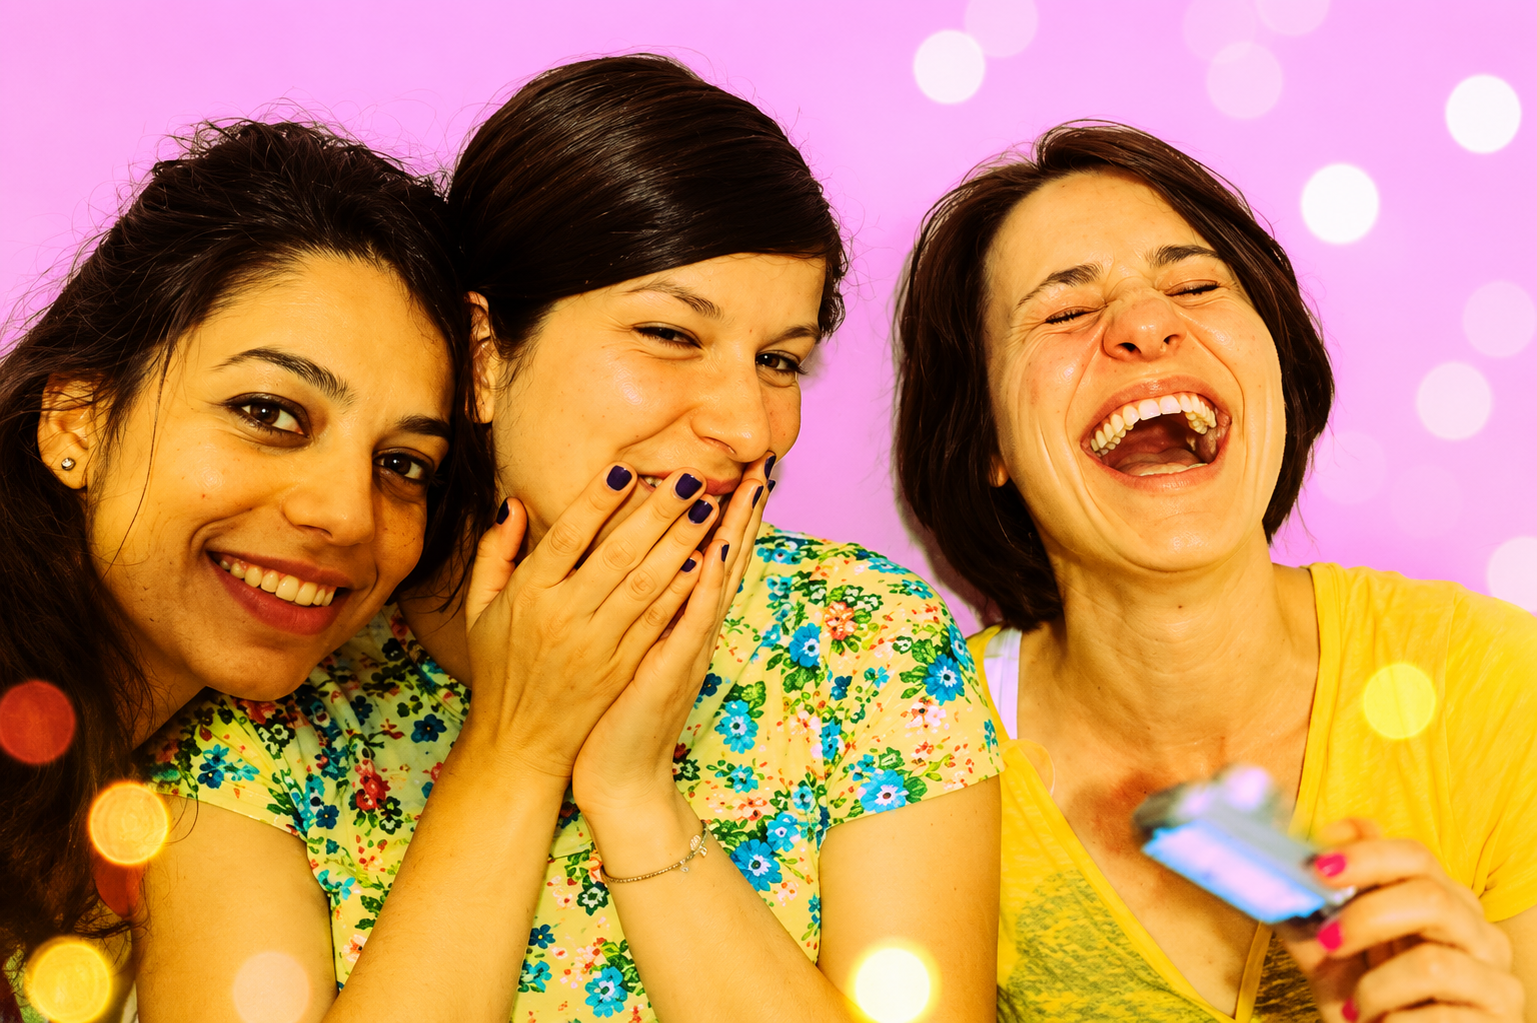
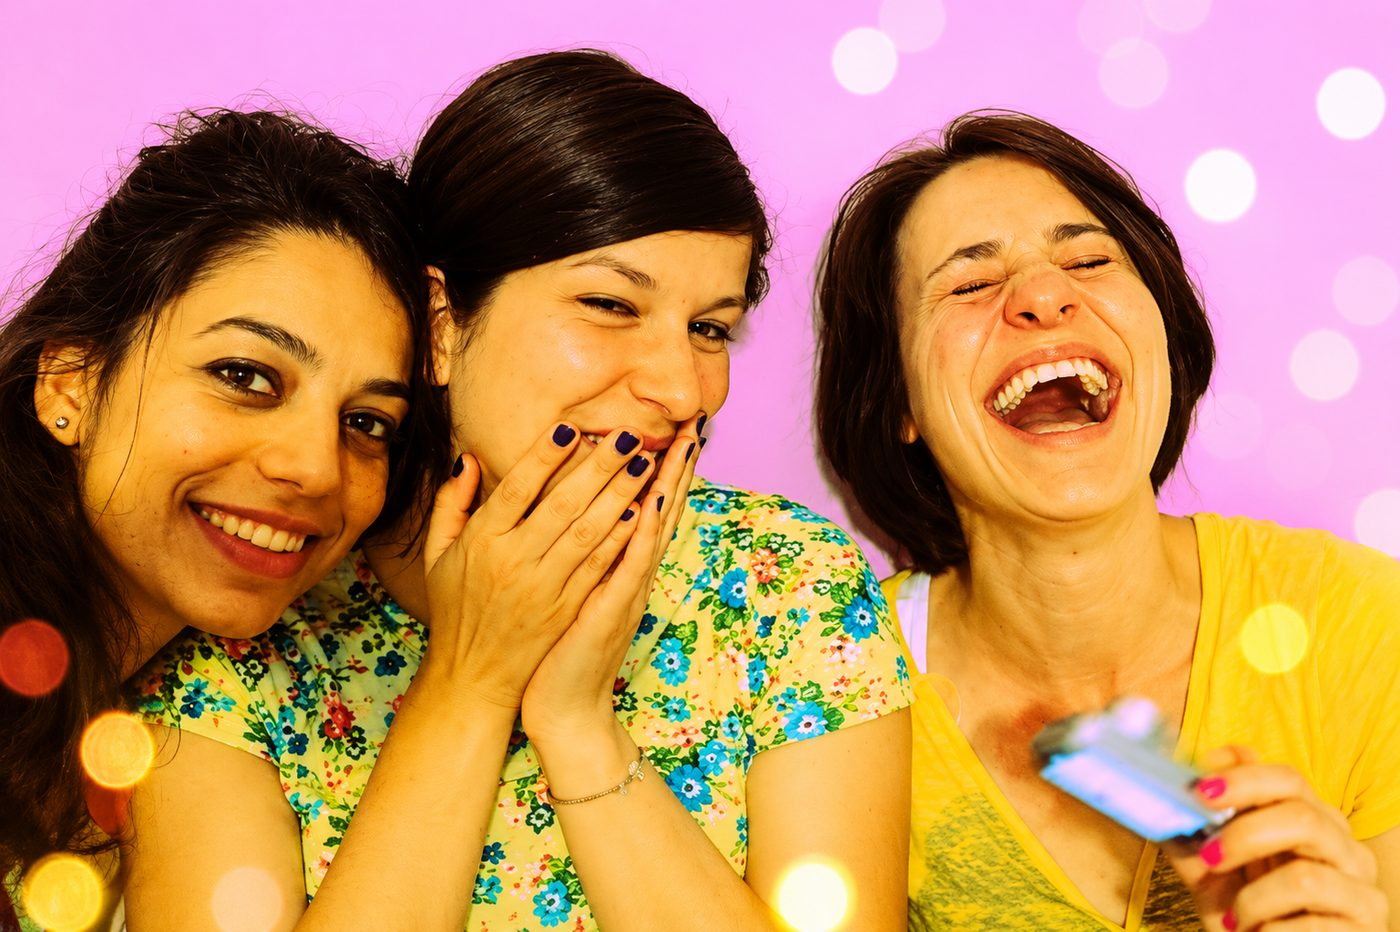
Performance: Hero-Bild Club Easy 2.3MB→211KB, Testimonials GPU-Compositing

diff --git a/index.html b/index.html
@@ -59,12 +59,15 @@
                 overflow: hidden;
                 width: 100%;
                 padding: 10px 0 30px;
+                transform: translateZ(0);
             }
             .testimonials-marquee-track {
                 display: flex;
                 gap: 24px;
                 width: max-content;
                 animation: marquee-scroll 200s linear infinite;
+                will-change: transform;
+                transform: translateZ(0);
             }
             .testimonials-marquee-track:hover {
                 animation-play-state: paused;